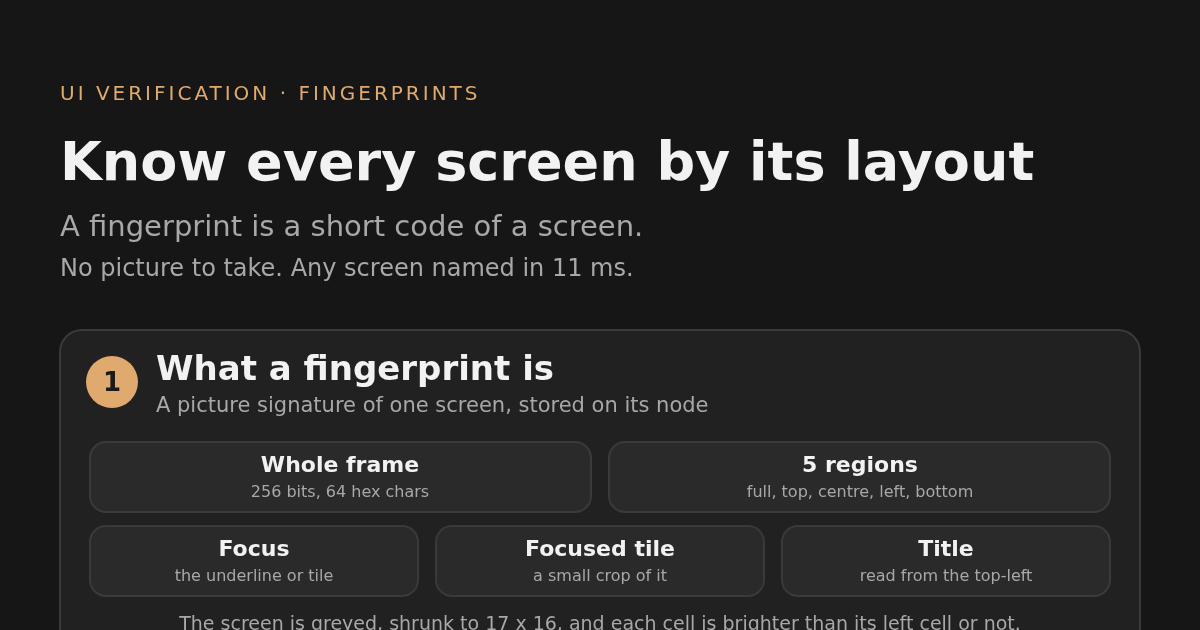
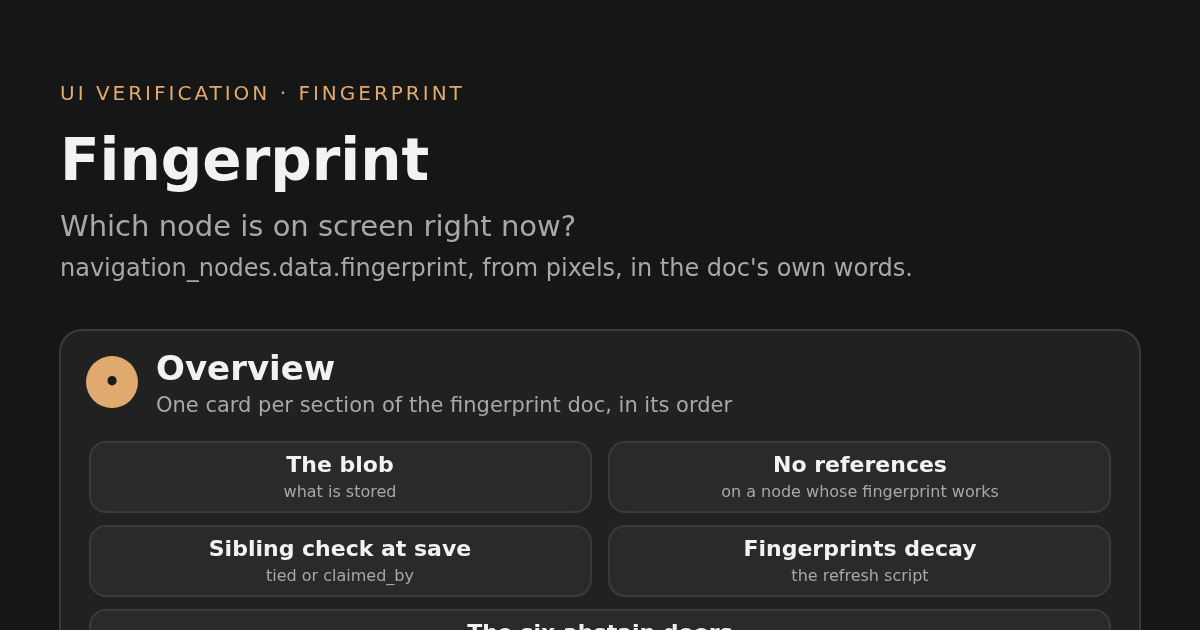
docs: fingerprint poster renamed Fingerprint, cards and chips use the fingerprint doc's own words; one-vocabulary rule
Claude-Session: https://claude.ai/code/session_01P912UqCbSjivfeumnFgzJr

diff --git a/docs/index.html b/docs/index.html
@@ -118,7 +118,7 @@ var POSTERS = [
   {id: 'what-is', title: 'What is VirtualPyTest?', topic: '0 · Infra architecture', learn: '0.1', src: 'img/what-is-virtualpytest.svg', alt: 'One vertical image: devices, control, the navigation map, screen checks, runs and KPIs, 24/7 monitoring, and the AI on top.'},
   {id: 'services', title: 'Services are background jobs', topic: '0 · Infra architecture', learn: '0.4', src: 'img/services.svg', alt: 'One vertical image: the backend server services, the device host services grouped by job (core, watch, drive, where used), and how every service shows on the Status page.'},
   {id: 'profiles', title: 'A profile is a set of services', topic: '0 · Infra architecture', learn: '0.3', src: 'img/profiles.svg', alt: 'One vertical image: the three host shapes, a profile for each device, a table of what each profile runs, one setting per device, a real case of paying for what you run, and what to keep.'},
-  {id: 'fingerprint', title: 'Know every screen by its layout', topic: '3 · UI verification', learn: '3.4', src: 'img/fingerprint.svg', alt: 'One vertical image: what a fingerprint is (whole frame, five regions, focus, focused tile, title), how it is made when a node is saved, how Localize names the live screen, when it says it is not sure, how nightly recapture handles daily content, and how it replaces reference images.'},
+  {id: 'fingerprint', title: 'Fingerprint', topic: '3 · UI verification', learn: '3.4', src: 'img/fingerprint.svg', alt: 'One vertical image that follows the fingerprint doc: the blob stored on a navigation node, no references on a node whose fingerprint works, the sibling check at save, the refresh script, and the six abstain doors of identify_screen.'},
   {id: 'ai-use-cases', title: 'Where VirtualPyTest uses AI', topic: '7 · AI in the lab', learn: '7.0', src: 'img/ai-use-cases.svg', alt: 'One vertical image that follows the AI use cases doc: the overview of the six use cases, cost, where it runs, what is NOT AI, then each use case (discard incidents, discard scripts, classify unknown screens, create scripts, help people, live TV companion) and freeze discard.'},
   {id: 'small-models', title: 'Our own small models', topic: '7 · AI in the lab', learn: '7.1/deep', src: 'img/small-models.svg', alt: 'One vertical image: the six steps that train a small model of our own, the freeze word classifier, the Localize model and the screen namer with their size, speed and score, what moved the score, and the lessons.'},
   {id: 'freeze-discard', title: 'Freeze: menu or stuck video?', topic: '7 · AI in the lab', learn: '7.5/deep', src: 'img/freeze-discard.svg', alt: 'One vertical image: a freeze alert, the words read on two frames, pieces and weights, the safety band (0.1 and 0.9), three real examples with the real model score, the weather-cast case that goes to the bigger check, and the nightly learning.'}

diff --git a/docs/view/fingerprint/index.html b/docs/view/fingerprint/index.html
@@ -1,14 +1,14 @@
 <!doctype html>
 <html lang="en"><head><meta charset="utf-8"><meta name="viewport" content="width=device-width, initial-scale=1">
-<title>Know every screen by its layout · VirtualPyTest</title>
-<meta name="description" content="A fingerprint is a short code of a screen: how it is made, how Localize names the live screen, and when it says not sure.">
+<title>Fingerprint · VirtualPyTest</title>
+<meta name="description" content="Which node is on screen right now? The blob stored on a node, the sibling check at save, the refresh script and the six abstain doors of identify_screen.">
 <meta property="og:type" content="website"><meta property="og:site_name" content="VirtualPyTest">
-<meta property="og:title" content="Know every screen by its layout"><meta property="og:description" content="A fingerprint is a short code of a screen: how it is made, how Localize names the live screen, and when it says not sure.">
+<meta property="og:title" content="Fingerprint"><meta property="og:description" content="Which node is on screen right now? The blob stored on a node, the sibling check at save, the refresh script and the six abstain doors of identify_screen.">
 <meta property="og:url" content="https://virtualpytest.com/docs/view/fingerprint/">
 <meta property="og:image" content="https://virtualpytest.com/docs/img/fingerprint-share.png"><meta property="og:image:width" content="1200"><meta property="og:image:height" content="630">
-<meta name="twitter:card" content="summary_large_image"><meta name="twitter:title" content="Know every screen by its layout"><meta name="twitter:description" content="A fingerprint is a short code of a screen: how it is made, how Localize names the live screen, and when it says not sure.">
+<meta name="twitter:card" content="summary_large_image"><meta name="twitter:title" content="Fingerprint"><meta name="twitter:description" content="Which node is on screen right now? The blob stored on a node, the sibling check at save, the refresh script and the six abstain doors of identify_screen.">
 <meta name="twitter:image" content="https://virtualpytest.com/docs/img/fingerprint-share.png">
 <link rel="canonical" href="https://virtualpytest.com/docs/view/fingerprint/">
 <meta http-equiv="refresh" content="0; url=../#fingerprint">
 <script>location.replace('../#fingerprint');</script>
-</head><body><p><a href="../#fingerprint">Know every screen by its layout</a></p></body></html>
+</head><body><p><a href="../#fingerprint">Fingerprint</a></p></body></html>

diff --git a/docs/view/index.html b/docs/view/index.html
@@ -38,7 +38,7 @@ var P = {
   'what-is': {title: 'What is VirtualPyTest?', src: '../img/what-is-virtualpytest.svg', alt: 'One vertical image: devices, control, the navigation map, screen checks, runs and KPIs, 24/7 monitoring, and the AI on top.'},
   'profiles': {title: 'A profile is a set of services', src: '../img/profiles.svg', alt: 'One vertical image: the three host shapes, a profile for each device, a table of what each profile runs, one setting per device, a real case of paying for what you run, and what to keep.'},
   'services': {title: 'Services are background jobs', src: '../img/services.svg', alt: 'One vertical image: the backend server services, the device host services grouped by job (core, watch, drive, where used), and how every service shows on the Status page.'},
-  'fingerprint': {title: 'Know every screen by its layout', src: '../img/fingerprint.svg', alt: 'One vertical image: what a fingerprint is (whole frame, five regions, focus, focused tile, title), how it is made when a node is saved, how Localize names the live screen, when it says it is not sure, how nightly recapture handles daily content, and how it replaces reference images.'},
+  'fingerprint': {title: 'Fingerprint', src: '../img/fingerprint.svg', alt: 'One vertical image that follows the fingerprint doc: the blob stored on a navigation node, no references on a node whose fingerprint works, the sibling check at save, the refresh script, and the six abstain doors of identify_screen.'},
   'ai-use-cases': {title: 'Where VirtualPyTest uses AI', src: '../img/ai-use-cases.svg', alt: 'One vertical image that follows the AI use cases doc: the overview of the six use cases, cost, where it runs, what is NOT AI, then each use case (discard incidents, discard scripts, classify unknown screens, create scripts, help people, live TV companion) and freeze discard.'},
   'small-models': {title: 'Our own small models', src: '../img/small-models.svg', alt: 'One vertical image: the six steps that train a small model of our own, the freeze word classifier, the Localize model and the screen namer with their size, speed and score, what moved the score, and the lessons.'},
   'freeze-discard': {title: 'Freeze: menu or stuck video?', src: '../img/freeze-discard.svg', alt: 'One vertical image: a freeze alert, the words read on two frames, pieces and weights, the safety band, the weather-cast case that goes to the bigger check, and the nightly learning.'}

diff --git a/tools/make_docs_poster_fingerprint.py b/tools/make_docs_poster_fingerprint.py
@@ -1,5 +1,5 @@
 #!/usr/bin/env python3
-"""Writes docs/img/fingerprint.svg (Docs poster "Know every screen by its layout").
+"""Writes docs/img/fingerprint.svg (Docs poster "Fingerprint").
 
 Sources: Learn lesson 3.4 and its Go deeper (how a fingerprint is computed, how Localize names the screen), and
 docs/agent/navigation/FINGERPRINT.md of the product repo. No date anywhere on the poster.
@@ -57,37 +57,39 @@ def card(y, n, title, sub, rows, notes=(), last=False):
         arrow(600, y + h, y + h + 50)
     return y + h + 50
 
-o.append('<svg xmlns="http://www.w3.org/2000/svg" viewBox="0 0 1200 HHH" width="1200" height="HHH" role="img" aria-labelledby="ti"><title id="ti">Know every screen by its layout: what a screen fingerprint is, how it is made, how Localize uses it, when it says not sure, and how it stays fresh, in one image</title>')
+o.append('<svg xmlns="http://www.w3.org/2000/svg" viewBox="0 0 1200 HHH" width="1200" height="HHH" role="img" aria-labelledby="ti"><title id="ti">Fingerprint: the blob stored on a navigation node, the sibling check at save, the refresh script, the six abstain doors of identify_screen, and no references on a node whose fingerprint works, in one image</title>')
 o.append('<rect width="1200" height="HHH" fill="%s"/>' % BG)
-t(60, 100, "UI VERIFICATION · FINGERPRINTS", 20, GOLD, 500, sp=3)
-t(60, 180, "Know every screen by its layout", 54, TXT, 700)
-t(60, 236, "A fingerprint is a short code of a screen.", 29, MUT, 400)
-t(60, 276, "No picture to take. Any screen named in 11 ms.", 24, MUT, 400)
+t(60, 100, "UI VERIFICATION · FINGERPRINT", 20, GOLD, 500, sp=3)
+t(60, 180, "Fingerprint", 58, TXT, 700)
+t(60, 236, "Which node is on screen right now?", 29, MUT, 400)
+t(60, 276, "navigation_nodes.data.fingerprint, from pixels, in the doc's own words.", 24, MUT, 400)
 y = 330
-y = card(y, "1", "What a fingerprint is", "A picture signature of one screen, stored on its node", [
-    [("Whole frame", "256 bits, 64 hex chars"), ("5 regions", "full, top, centre, left, bottom")],
-    [("Focus", "the underline or tile"), ("Focused tile", "a small crop of it"), ("Title", "read from the top-left")],
-], ["The screen is greyed, shrunk to 17 x 16, and each cell is brighter than its left cell or not.", "Details melt away. The layout stays."])
-y = card(y, "2", "Made when the node is saved", "From the node screenshot, nothing to type", [
-    [("Screenshot", "taken on the node"), ("Fingerprint", "computed from it"), ("Stored", "on the node")],
-    [("Look-alikes", "a tie with a sibling is refused")],
-], ["It is kept in the node data, next to the screenshot.", "Saving a node that Localize could not tell from another asks you first."])
-y = card(y, "3", "Localize names the live screen", "The live frame against every reachable node", [
-    [("Live frame", "fingerprinted once, 11 ms"), ("Compare", "bits that differ, per region")],
-    [("2 regions agree", "closest within 14 bits"), ("Focus matches", "same underline, same tab"), ("Title", "tells look-alikes apart")],
-], ["All 27 screens of a real map are compared in under a tenth of a millisecond.", "One screen left: that is its name, with a confidence."])
-y = card(y, "4", "When it is not sure, it says so", "An empty list is an abstention, never a guess", [
-    [("Nothing to see", "black, asleep, fading"), ("No underline match", "no tab agrees")],
-    [("Far and no title", "spurious match refused"), ("Too many left", "it cannot tell them apart")],
-], ["Unknown is a good answer. A wrong name would be worse."])
-y = card(y, "5", "Daily content drifts", "A stored fingerprint is one frame", [
-    [("Posters change", "rails, recordings, heroes"), ("Match fails", "Localize answers Unknown")],
-    [("fingerprint_refresh", "go to the node, prove it, save"), ("Nightly", "a scheduled run")],
-], ["The script recaptures every fingerprint-verified node of a tree.", "A node it cannot prove is reported, never forced."])
-y = card(y, "6", "It replaces reference images", "One check per node, once it works", [
-    [("Before", "an image or text check per node"), ("After", "the fingerprint names the screen")],
-    [("goto", "proves it arrived"), ("Localize", "names the screen"), ("Monitoring", "all day, every device")],
-], ["Text checks still read a value, like a version number.", "The focused tab or tile keeps its own focus check."], last=True)
+y = card(y, "•", "Overview", "One card per section of the fingerprint doc, in its order", [
+    [("The blob", "what is stored"), ("No references", "on a node whose fingerprint works")],
+    [("Sibling check at save", "tied or claimed_by"), ("Fingerprints decay", "the refresh script")],
+    [("The six abstain doors", "of identify_screen")],
+])
+y = card(y, "1", "The blob", "compute_fingerprint(img_bgr) returns", [
+    [("dhash", "full frame, 256 bits"), ("regions", "full, top, center, left, bottom")],
+    [("crop", "focused-tile logo dHash"), ("focus", "kind: nav, box or none"), ("title", "OCR heading, top-left")],
+], ["Kept in navigation_nodes.data.fingerprint, built from the node screenshot.", "FINGERPRINT_VERSION = 6: v4 dhash + focus, v5 regions, v6 crop."])
+y = card(y, "2", "No references on a node whose fingerprint works", "A node is named by its fingerprint", [
+    [("Reference", "a text, image or color check"), ("Not a reference", "identity, state, focus")],
+    [("The fingerprint works", "its own screenshot names it alone"), ("reference_reason", "kept only where it does not")],
+], ["The gate refuses a reference on a node whose fingerprint works.", "Nightly audit: REF_WITH_WORKING_FP."])
+y = card(y, "3", "Sibling check at save", "Before a node screenshot is stored", [
+    [("tied", "refused, unless force"), ("claimed_by", "saved, with a warning")],
+    [("Declared twins", "never count")],
+], ["The matcher is asked if Localize could tell the node from its siblings."])
+y = card(y, "4", "Fingerprints decay: the refresh script", "A stored fingerprint is one frame", [
+    [("Daily content", "rails, posters, recordings"), ("Localize answers Unknown", "on a page that passed")],
+    [("fingerprint_refresh", "go to the node, prove it, save"), ("Periodic", "run it nightly")],
+], ["A node it cannot prove arrives is not forced."])
+y = card(y, "5", "The six abstain doors of identify_screen", "Each one removes candidates; empty is an abstention", [
+    [("1 low-content frame", "edge density under 3.0"), ("2 no underline match", "nav underline matched no node")],
+    [("3 far-region title gate", "region distance over 60"), ("4 title_score", "under 0.5 is dropped")],
+    [("5 dHash fallback", "narrowing, margin 14"), ("6 confidence floor", "FP_MIN_CONFIDENCE 0.55")],
+], ["Not a guess: with no match the result is known_screen or unknown."], last=True)
 H = y + 20
 t(600, H - 30, "virtualpytest.com · open source, AGPLv3", 20, MUT, 400, "middle")
 o.append('</svg>')

diff --git a/tools/make_docs_share.py b/tools/make_docs_share.py
@@ -15,7 +15,7 @@ POSTERS = [
     ("what-is", "What is VirtualPyTest?", "img/what-is-virtualpytest.svg", "Any device with a screen, tested and monitored 24/7 by AI, in one image."),
     ("profiles", "A profile is a set of services", "img/profiles.svg", "What a host runs for each device: three host shapes, a profile per device and a table of what each profile switches on."),
     ("services", "Services are background jobs", "img/services.svg", "Every VirtualPyTest service, grouped in server and host, and how each one shows on the Status page."),
-    ("fingerprint", "Know every screen by its layout", "img/fingerprint.svg", "A fingerprint is a short code of a screen: how it is made, how Localize names the live screen, and when it says not sure."),
+    ("fingerprint", "Fingerprint", "img/fingerprint.svg", "Which node is on screen right now? The blob stored on a node, the sibling check at save, the refresh script and the six abstain doors of identify_screen."),
     ("ai-use-cases", "Where VirtualPyTest uses AI", "img/ai-use-cases.svg", "Where VirtualPyTest uses AI: six use cases, from discarding incidents to the live TV companion, and what is not AI."),
     ("small-models", "Our own small models", "img/small-models.svg", "How we trained three small models of our own, taught by the cloud models, answering only when sure, 0 USD a call."),
     ("freeze-discard", "Freeze: menu or stuck video?", "img/freeze-discard.svg", "How a freeze alert is decided in 0.25 ms: read the words, weigh the pieces, decide with a safety band."),

diff --git a/tools/DOCS_POSTERS.md b/tools/DOCS_POSTERS.md
@@ -69,6 +69,16 @@ page, a free streaming app; never an operator or provider app), real OCR words (
 decision, small thumbnails (320x180 JPG in `docs/img/<id>-real-<name>.jpg`, embedded in the SVG as base64), say the
 first and last frame are the same. The model itself never goes on the page, only its results. Run the model on the example before you write its caption: a screensaver has no words, so it scores 0.00 (video, alert kept), not menu.
 
+## One vocabulary: reuse the exact words (owner 2026-11-24)
+
+A poster invents no word. Its title is the **name of the thing** (the doc's or lesson's own name: `Fingerprint`), its cards
+are the doc's section titles in the doc's order, and every chip is an item name the doc uses (`dhash`, `regions`, `crop`,
+`focus`, `title`, `tied`, `claimed_by`, `fingerprint_refresh`, "low-content frame" ...), spelled as the doc spells it (`center`, not
+"centre"). Before drawing, list the doc's terms and map every chip to one; a chip that maps to none is removed or the doc gets the
+word first. This replaces "same title as the Learn lesson" when the owner names the title: the `fingerprint` poster is
+`Fingerprint` while Learn lesson 3.4 says "Know every screen by its layout". Example: `tools/make_docs_poster_fingerprint.py`
+mirrors `docs/agent/navigation/FINGERPRINT.md`.
+
 ## Share a poster (X, LinkedIn, WhatsApp)
 
 Share the link **`https://virtualpytest.com/docs/view/<id>/`**, not `.../view/#<id>`: social crawlers ignore the `#`.
